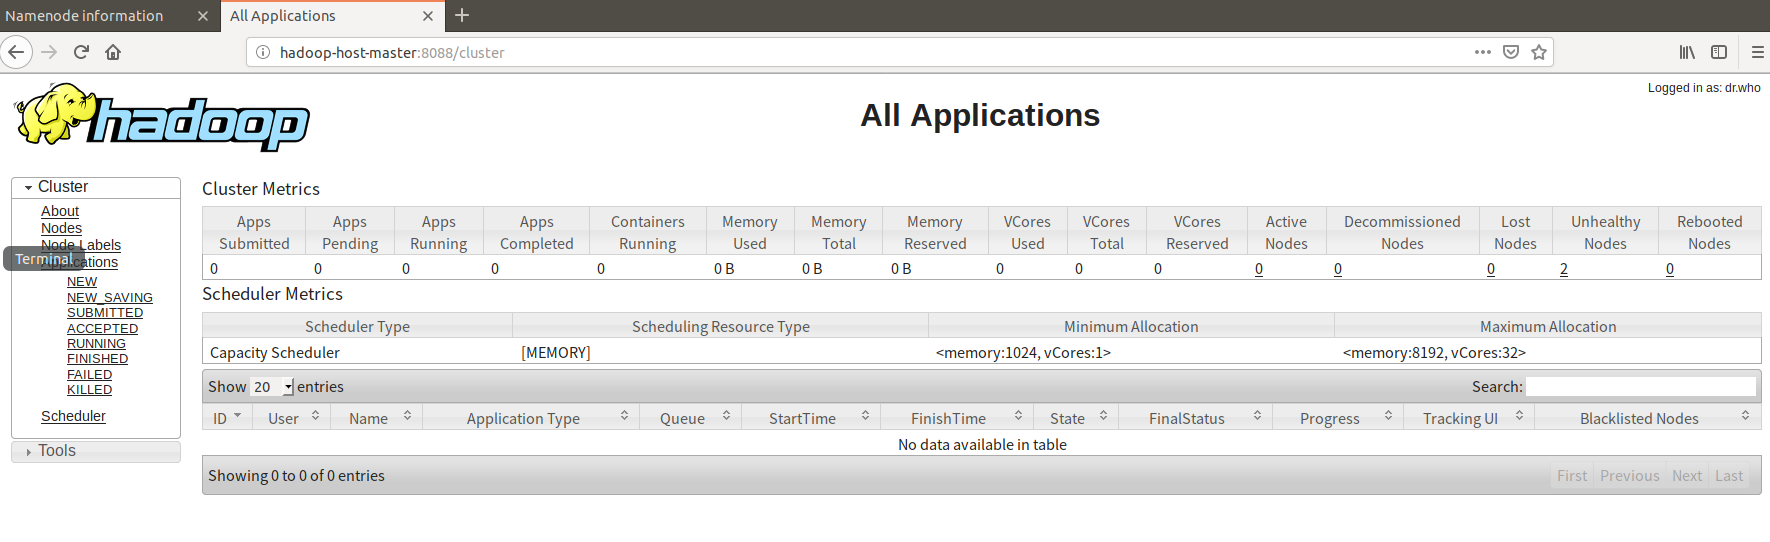
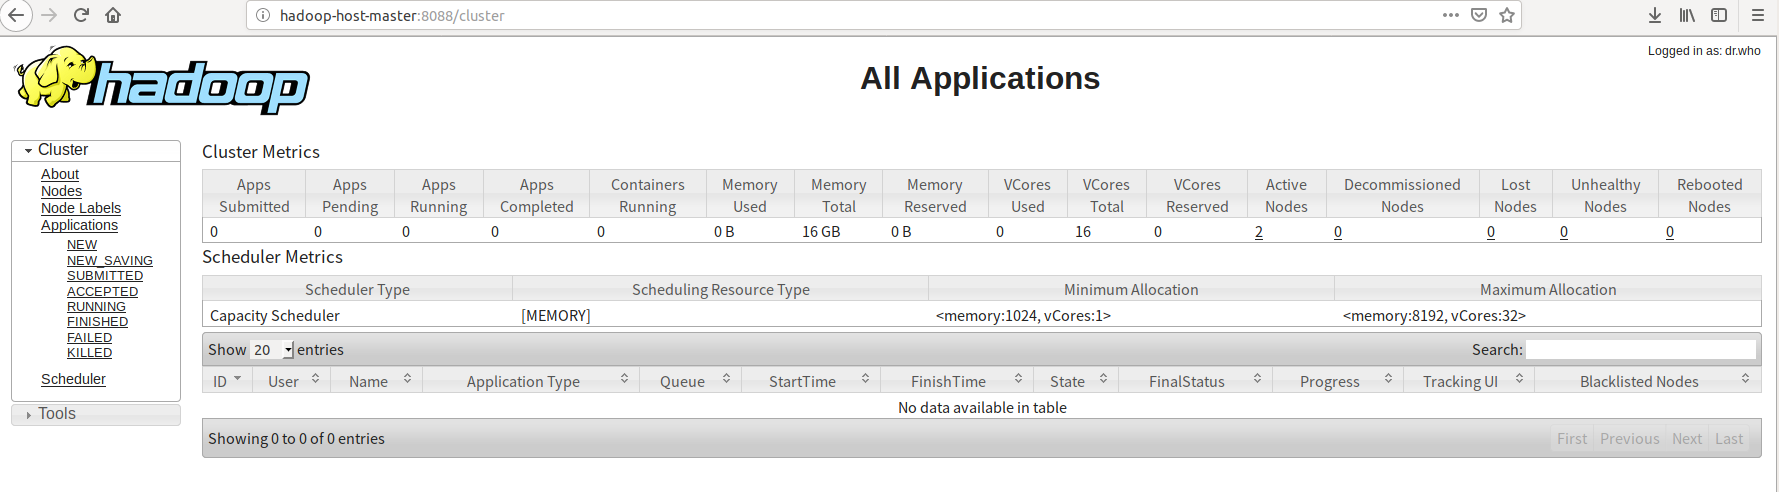
修改hadoop集群安装笔记

Changed region(s): [[0.0, 0.0, 1.0, 1.0], [0.2486, 0.7622, 0.3418, 0.7927], [0.3729, 0.7622, 0.404, 0.7927]]

diff --git a/source/_posts/hadoop-cluster.md b/source/_posts/hadoop-cluster.md
@@ -358,7 +358,7 @@ http://hadoop-host-master:8088/
 
 ![](/img/hadoop-9.png "yarn资源管理")
 
-点击图中的`Unhealthy Nodes`可以看到下图，出现这个原因是由于我虚拟机中主机的磁盘空间不足所致。
+点击图中的`Active Nodes`可以看到下图的详情，（如果`Unhealthy Nodes`有节点，则可能是由于虚拟机中主机的磁盘空间不足所致）。
 
 ![](/img/hadoop-10.png "yarn资源管理")
 
@@ -395,6 +395,22 @@ $ ./sbin/mr-jobhistory-daemon.sh start historyserver
 http://hadoop-host-master:19888/
 
 ![](/img/hadoop-12.png "MR作业日志管理器")
+
+
+### 尝试向集群中提交一个mapReduce任务
+我们在namenode节点中向集群提交一个计算圆周率的mapReduce任务：
+``` bash
+$ cd /home/hadoop/hadoop-2.7.3/
+$ ./bin/hadoop jar share/hadoop/mapreduce/hadoop-mapreduce-examples-2.7.3.jar pi 4 10
+```
+
+![](/img/hadoop-13.png "计算圆周率")
+
+![](/img/hadoop-14.png "计算圆周率")
+
+从上图可以看出，圆周率已经被计算出来：`3.14`。另外，在yarn中也可以看到任务的执行情况：
+![](/img/hadoop-15.png "计算圆周率")
+
 
 至此， 集群搭建完毕。
 
